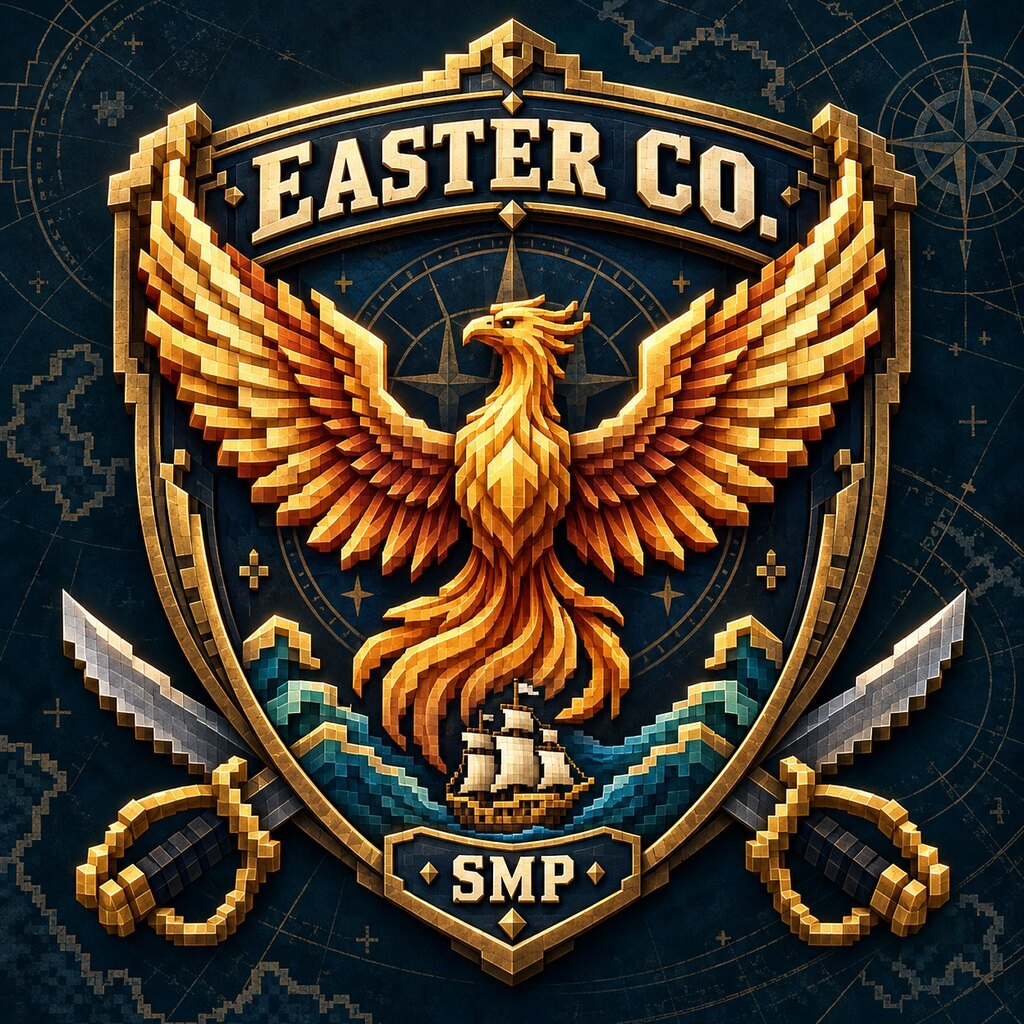
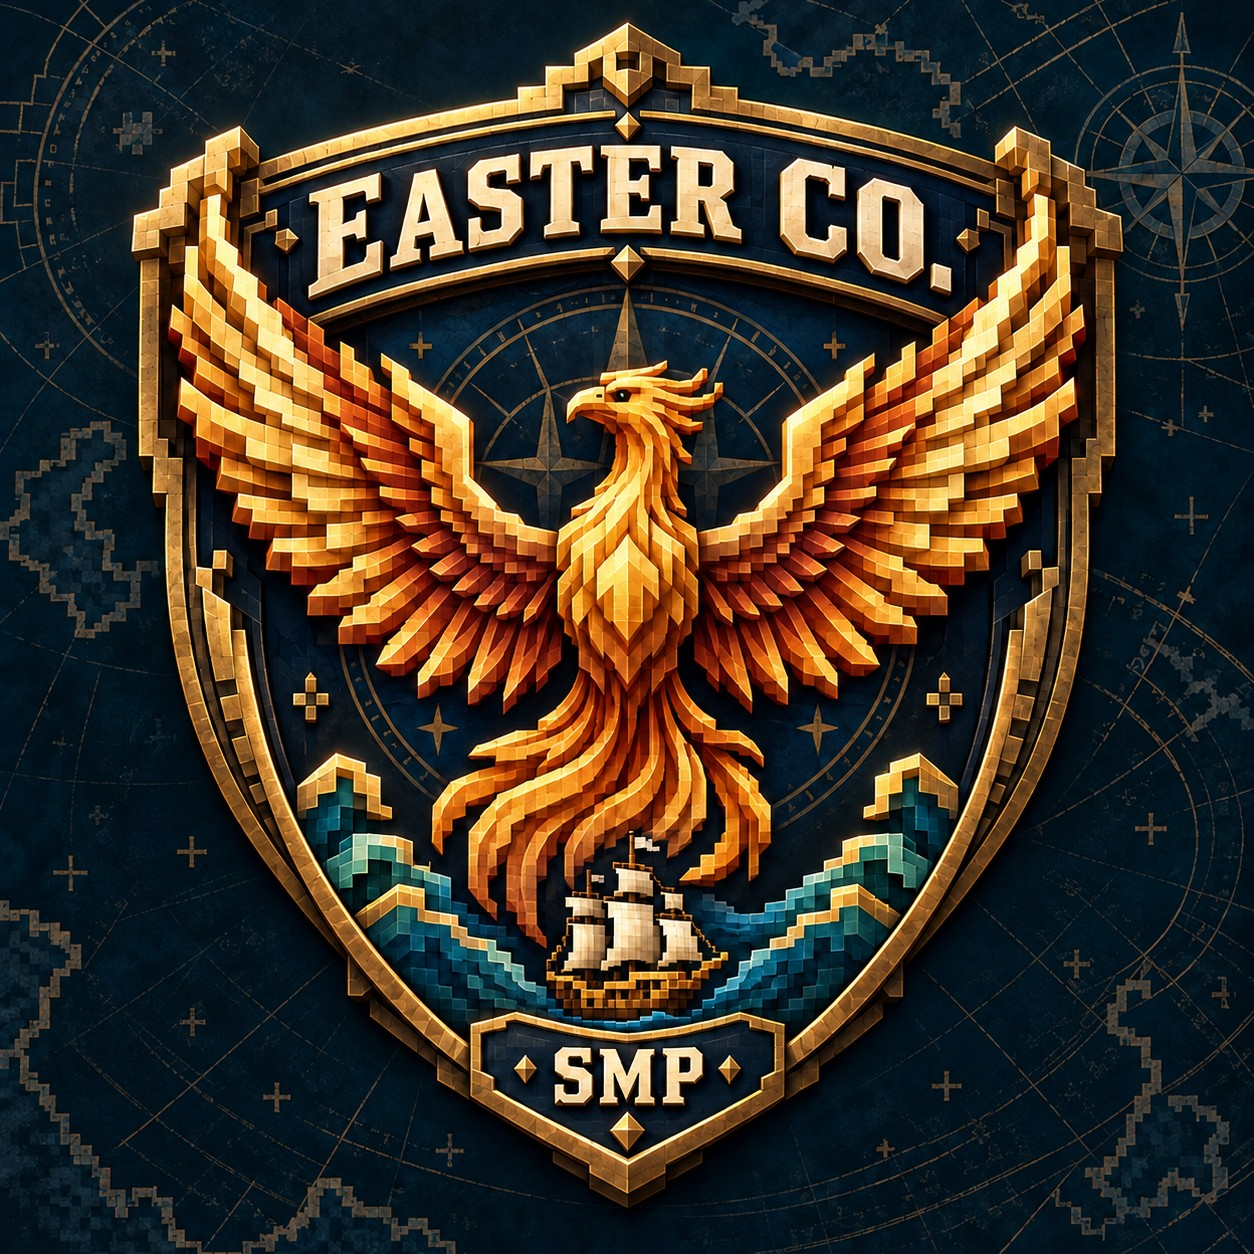
Remove swords from naval phoenix hero crest

diff --git a/site/index.html b/site/index.html
@@ -13,7 +13,7 @@
   <div class="harbour-background" aria-hidden="true"></div>
   <main class="home-content">
     <div class="home-hero">
-      <div class="crest-frame"><img src="assets/crest.jpg" width="480" height="480" alt="Easter Co. SMP gold phoenix naval crest with crossed cutlasses and a Minecraft sailing ship" fetchpriority="high"></div>
+      <div class="crest-frame"><img src="assets/crest.jpg" width="480" height="480" alt="Easter Co. SMP gold phoenix naval crest with a Minecraft sailing ship" fetchpriority="high"></div>
       <div class="hero-copy">
         <p class="eyebrow"><span></span> Easter Co. SMP</p>
         <h1>The Ultimate<br><em>Minecraft Experience</em></h1>

diff --git a/ART.md b/ART.md
@@ -2,7 +2,7 @@
 
 The hero crest at `site/assets/crest.jpg` is generated promotional artwork, using
 `site/assets/favicon.png` as the reference for Easter Company's rising phoenix.
-Its navy enamel shield, antique-gold bird, crossed naval cutlasses and block-built
+Its navy enamel shield, antique-gold bird and block-built
 sailing ship bring the server identity into the website's navy, teal and gold palette.
 The phoenix is the primary silhouette; lettering and maritime details are secondary.
 This replaces the original scene-heavy server artwork. The company favicon remains
